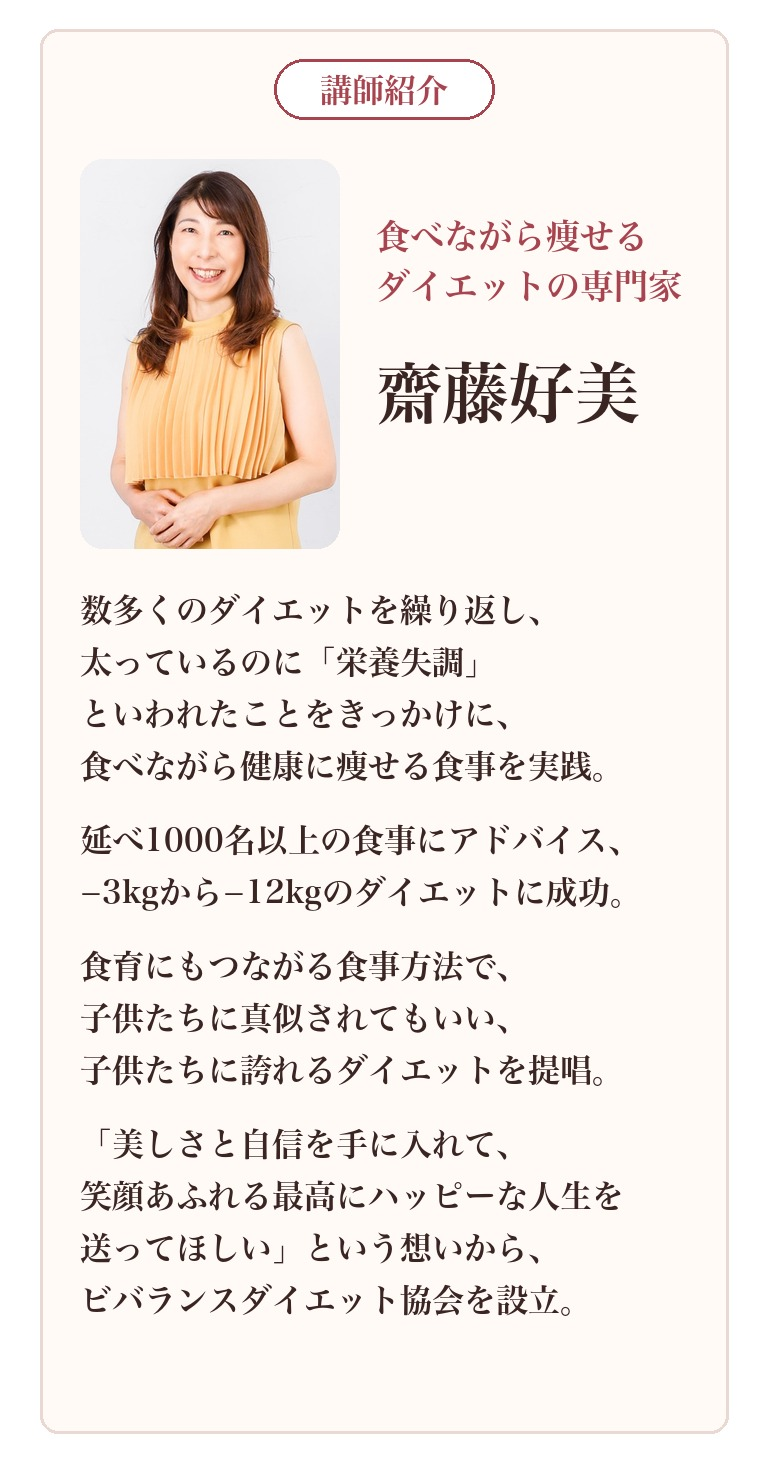
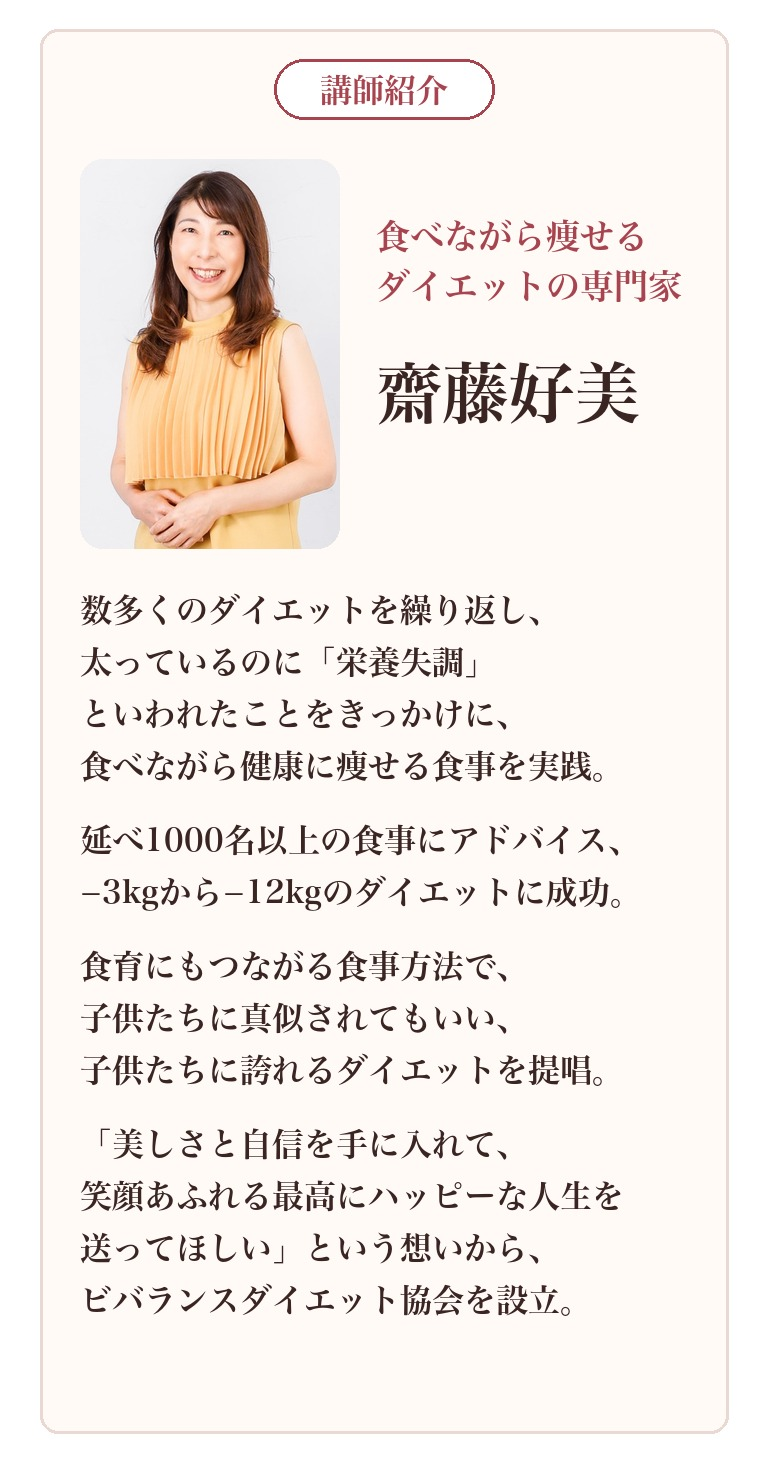
確認用ページ：「もし」の1枚を外す

diff --git a/preview/index.html b/preview/index.html
@@ -2,4 +2,4 @@
 <style>body{margin:0;background:#fff}.w{max-width:480px;margin:0 auto}.w img{display:block;width:100%}
 .sticky{position:fixed;left:0;right:0;bottom:0;background:rgba(255,255,255,.95);padding:10px 14px;border-top:3px solid #f6b3c0}
 .sticky a{position:relative;display:flex;align-items:center;justify-content:center;max-width:420px;margin:0 auto;background:#06c755;color:#fff;font-weight:800;font-size:19px;padding:0 44px 0 66px;height:58px;border-radius:999px;text-decoration:none;font-family:"Hiragino Sans",sans-serif;box-shadow:0 5px 0 #04964a;border:2px solid #7ce6a6;box-sizing:border-box}.sticky .ic{position:absolute;left:12px;top:50%;transform:translateY(-50%);width:42px;height:38px;background:#fff;border-radius:13px;color:#06c755;font-size:13px;font-weight:900;display:flex;align-items:center;justify-content:center;letter-spacing:-.5px}.sticky .ic:after{content:"";position:absolute;left:9px;bottom:-7px;border-left:6px solid transparent;border-right:6px solid transparent;border-top:9px solid #fff;transform:skewX(20deg)}.sticky .ar{position:absolute;right:18px;top:50%;transform:translateY(-50%);border-left:14px solid #fff;border-top:10px solid transparent;border-bottom:10px solid transparent}</style></head>
-<body><div class="w"><img src="q01.jpg?v=5" alt=""><a href="https://lin.ee/VeUwJHO"><img src="q02.jpg?v=5" alt=""></a><img src="q03.jpg?v=5" alt=""><img src="q04.jpg?v=5" alt=""><img src="q05.jpg?v=5" alt=""><img src="q06.jpg?v=5" alt=""><img src="q07.jpg?v=5" alt=""><img src="q08.jpg?v=5" alt=""><img src="q09.jpg?v=5" alt=""><img src="q10.jpg?v=5" alt=""><img src="q11.jpg?v=5" alt=""><img src="q12.jpg?v=5" alt=""><img src="q13.jpg?v=5" alt=""><img src="q14.jpg?v=5" alt=""><img src="q15.jpg?v=5" alt=""><a href="https://lin.ee/VeUwJHO"><img src="q16.jpg?v=5" alt=""></a></div><div class="sticky"><a href="https://lin.ee/VeUwJHO"><span class="ic">LINE</span>無料プレゼントを受け取る<span class="ar"></span></a></div></body></html>
+<body><div class="w"><img src="q01.jpg?v=6" alt=""><a href="https://lin.ee/VeUwJHO"><img src="q02.jpg?v=6" alt=""></a><img src="q03.jpg?v=6" alt=""><img src="q04.jpg?v=6" alt=""><img src="q05.jpg?v=6" alt=""><img src="q06.jpg?v=6" alt=""><img src="q07.jpg?v=6" alt=""><img src="q08.jpg?v=6" alt=""><img src="q09.jpg?v=6" alt=""><img src="q10.jpg?v=6" alt=""><img src="q11.jpg?v=6" alt=""><img src="q12.jpg?v=6" alt=""><img src="q13.jpg?v=6" alt=""><img src="q14.jpg?v=6" alt=""><a href="https://lin.ee/VeUwJHO"><img src="q15.jpg?v=6" alt=""></a></div><div class="sticky"><a href="https://lin.ee/VeUwJHO"><span class="ic">LINE</span>無料プレゼントを受け取る<span class="ar"></span></a></div></body></html>
